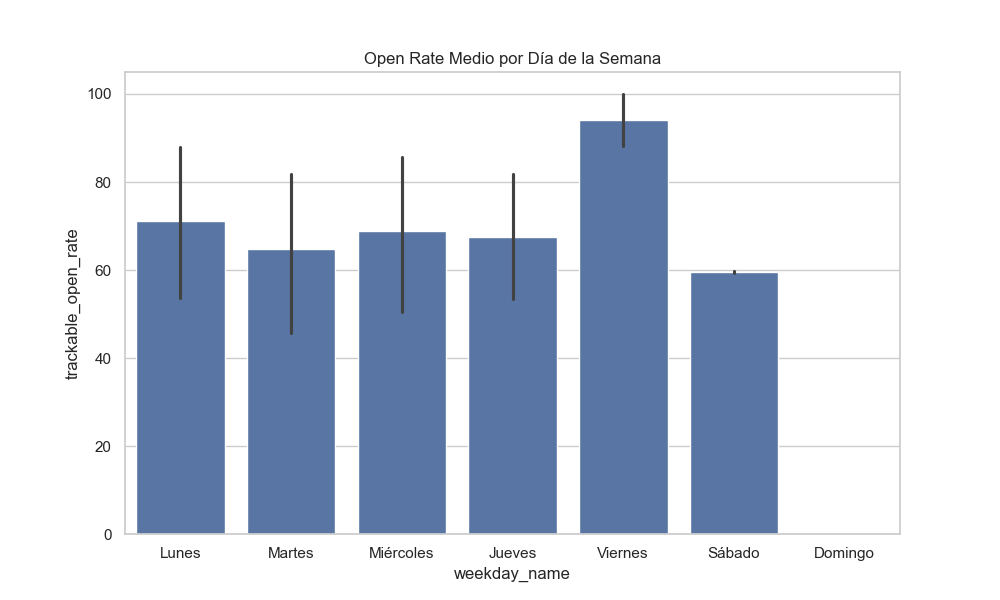
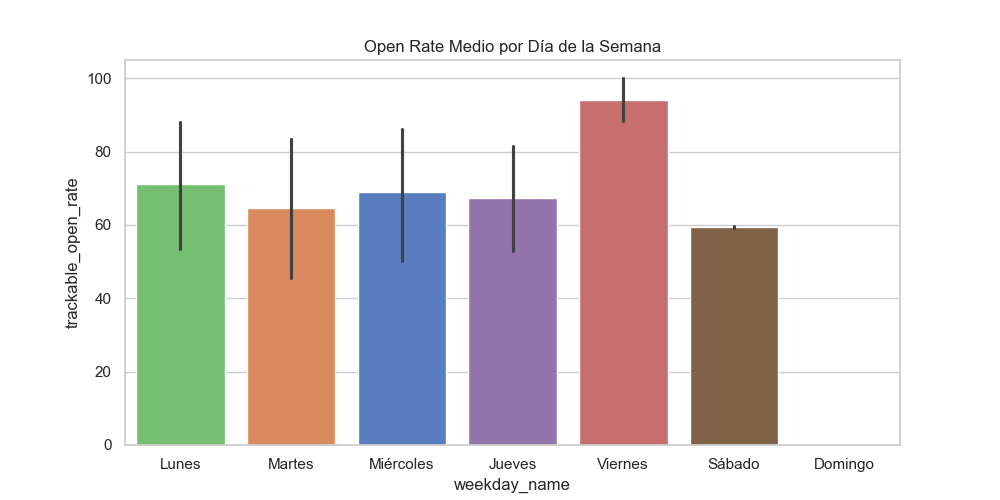
mejora del script

Changed region(s): [[0.062, 0.18, 0.775, 0.99], [0.372, 0.06, 0.682, 0.12], [0.806, 0.9, 0.868, 0.96]]

diff --git a/scripts/analisis_insights.py b/scripts/analisis_insights.py
@@ -3,15 +3,33 @@ import pandas as pd
 import numpy as np
 import matplotlib.pyplot as plt
 import seaborn as sns
+import os
+
+# Robustez para ventanas interactivas
+try:
+    script_dir = os.path.dirname(os.path.abspath(__file__))
+    project_root = os.path.abspath(os.path.join(script_dir, ".."))
+except NameError:
+    project_root = os.getcwd()
+
+# Definir rutas
+data_path = os.path.join(project_root, "data/processed/data_limpia.csv")
+outputs_tablas = os.path.join(project_root, "outputs/tablas")
+outputs_graficos = os.path.join(project_root, "outputs/graficos")
+outputs_informes = os.path.join(project_root, "outputs/informes")
 
 # Configuración visual
 sns.set(style="whitegrid")
 plt.rcParams['figure.figsize'] = (12, 8)
 
 # 1. CARGA DE DATOS
-df = pd.read_csv("notebooks/data_limpia.csv")
+if not os.path.exists(data_path):
+    raise FileNotFoundError(f"No se encontró el archivo en {data_path}")
 
-# 2. SEGMENTACIÓN POR RENDIMIENTO (CLUSTER RÁPIDO)
+df = pd.read_csv(data_path)
+print(f"✅ Datos cargados correctamente ({len(df)} registros).")
+
+# 2. SEGMENTACIÓN
 def segmentar_rendimiento(row):
     if row['trackable_open_rate'] >= 80 and row['click_rate'] >= 30:
         return 'Top Performance'
@@ -24,7 +42,7 @@ def segmentar_rendimiento(row):
 
 df['segmento_rendimiento'] = df.apply(segmentar_rendimiento, axis=1)
 
-# 3. ANÁLISIS DE TEMÁTICAS / KEYWORDS EN EL ASUNTO
+# 3. TEMÁTICAS
 keywords = {
     'convocatoria': ['convocatoria', 'abiertas', 'plazo'],
     'webinar_formacion': ['webinar', 'demo', 'taller', 'programa'],
@@ -43,76 +61,72 @@ def detectar_tematica(subject):
 df['tematica_asunto'] = df['subject'].apply(detectar_tematica)
 
 # ==============================
-# 4. ANÁLISIS TEMPORAL (AÑO, MES, DÍA)
+# 4. GUARDADO DE TABLAS
 # ==============================
+df.groupby('year')[['trackable_open_rate', 'click_rate']].mean().to_csv(os.path.join(outputs_tablas, "stats_por_año.csv"))
+df.groupby('month')[['trackable_open_rate', 'click_rate']].mean().to_csv(os.path.join(outputs_tablas, "stats_por_mes.csv"))
 
-# 4.1. Rendimiento por Año
-year_stats = df.groupby('year')[['trackable_open_rate', 'click_rate']].mean()
-year_stats.to_csv("outputs/tablas/stats_por_año.csv")
-
-# 4.2. Rendimiento por Mes (Estacionalidad)
-month_stats = df.groupby('month')[['trackable_open_rate', 'click_rate']].mean()
-month_stats.to_csv("outputs/tablas/stats_por_mes.csv")
-
-# 4.3. Rendimiento por Día de la Semana (0=Lunes, 6=Domingo)
 weekday_map = {0: 'Lunes', 1: 'Martes', 2: 'Miércoles', 3: 'Jueves', 4: 'Viernes', 5: 'Sábado', 6: 'Domingo'}
 df['weekday_name'] = df['weekday'].map(weekday_map)
 weekday_stats = df.groupby('weekday_name')[['trackable_open_rate', 'click_rate']].mean().reindex(['Lunes', 'Martes', 'Miércoles', 'Jueves', 'Viernes', 'Sábado', 'Domingo'])
-weekday_stats.to_csv("outputs/tablas/stats_por_dia.csv")
+weekday_stats.to_csv(os.path.join(outputs_tablas, "stats_por_dia.csv"))
 
-# 5. GUARDAR ESTADÍSTICAS ADICIONALES
-tematica_stats = df.groupby('tematica_asunto')[['trackable_open_rate', 'click_rate', 'click_to_open_rate']].mean().sort_values('trackable_open_rate', ascending=False)
-tematica_stats.to_csv("outputs/tablas/stats_por_tematica.csv")
-
-publico_tipo_stats = df.groupby(['tipo_publico', 'tipo_campaña'])[['trackable_open_rate', 'click_rate']].mean().unstack()
-publico_tipo_stats.to_csv("outputs/tablas/stats_publico_tipo.csv")
+print(f"📊 Tablas estadísticas guardadas en: {outputs_tablas}")
 
 # ==============================
-# 6. VISUALIZACIONES ESTRATÉGICAS
+# 5. VISUALIZACIONES (GUARDAR Y MOSTRAR)
 # ==============================
 
-# 6.1. Evolución por Año (Barplot)
-plt.figure(figsize=(10, 6))
-sns.barplot(x='year', y='trackable_open_rate', data=df, palette='viridis')
+def finalizar_grafico(nombre_archivo):
+    path = os.path.join(outputs_graficos, nombre_archivo)
+    plt.savefig(path)
+    print(f"🖼 Gráfico guardado: {nombre_archivo}")
+    plt.show() # Esto hace que se vea en la ventana interactiva
+    plt.close()
+
+# 5.1. Evolución por Año
+plt.figure(figsize=(10, 5))
+sns.barplot(x='year', y='trackable_open_rate', data=df, hue='year', palette='viridis', legend=False)
 plt.title('Evolución del Open Rate por Año')
-plt.savefig("outputs/graficos/evolucion_anual_openrate.png")
-plt.close()
+finalizar_grafico("evolucion_anual_openrate.png")
 
-# 6.2. Estacionalidad Mensual (Lineplot)
-plt.figure(figsize=(10, 6))
+# 5.2. Estacionalidad Mensual
+plt.figure(figsize=(10, 5))
 sns.lineplot(x='month', y='trackable_open_rate', data=df, marker='o', label='Open Rate')
 sns.lineplot(x='month', y='click_rate', data=df, marker='s', label='Click Rate')
 plt.xticks(range(1, 13))
 plt.title('Rendimiento Medio por Mes (Estacionalidad)')
-plt.savefig("outputs/graficos/estacionalidad_mensual.png")
-plt.close()
+finalizar_grafico("estacionalidad_mensual.png")
 
-# 6.3. Rendimiento por Día de la Semana
-plt.figure(figsize=(10, 6))
-sns.barplot(x='weekday_name', y='trackable_open_rate', data=df, order=['Lunes', 'Martes', 'Miércoles', 'Jueves', 'Viernes', 'Sábado', 'Domingo'])
+# 5.3. Rendimiento por Día de la Semana
+plt.figure(figsize=(10, 5))
+sns.barplot(x='weekday_name', y='trackable_open_rate', data=df, order=['Lunes', 'Martes', 'Miércoles', 'Jueves', 'Viernes', 'Sábado', 'Domingo'], hue='weekday_name', palette='muted', legend=False)
 plt.title('Open Rate Medio por Día de la Semana')
-plt.savefig("outputs/graficos/rendimiento_dia_semana.png")
-plt.close()
+finalizar_grafico("rendimiento_dia_semana.png")
 
-# 6.4. Mapa de calor Temática vs Público
+# 5.4. Mapa de calor
 plt.figure(figsize=(10, 6))
 pivot_tematica = df.pivot_table(values='trackable_open_rate', index='tematica_asunto', columns='tipo_publico', aggfunc='mean')
 sns.heatmap(pivot_tematica, annot=True, cmap='YlGnBu', fmt=".1f")
 plt.title('Open Rate por Temática y Público')
-plt.savefig("outputs/graficos/heatmap_tematica_publico.png")
-plt.close()
+finalizar_grafico("heatmap_tematica_publico.png")
 
-# 7. GENERACIÓN DE INSIGHTS TEXTUALES
+# ==============================
+# 6. INFORME FINAL
+# ==============================
 mejor_dia = weekday_stats['trackable_open_rate'].idxmax()
-mejor_mes = month_stats['trackable_open_rate'].idxmax()
+month_stats = df.groupby('month')['trackable_open_rate'].mean()
+mejor_mes = month_stats.idxmax()
 
-insights = []
-insights.append(f"1. El mejor día para enviar newsletters es el {mejor_dia} (Open Rate: {weekday_stats.loc[mejor_dia, 'trackable_open_rate']:.2f}%).")
-insights.append(f"2. El mes con mayor engagement histórico es el {mejor_mes}, lo que sugiere picos estacionales de interés.")
-insights.append(f"3. El público 'artistas' responde significativamente mejor a las 'convocatorias' con un Open Rate medio de {df[df['tipo_publico']=='artistas']['trackable_open_rate'].mean():.2f}%.")
-insights.append(f"4. Los envíos a 'programadores' tienen un rendimiento crítico (Open Rate: {df[df['tipo_publico']=='programadores']['trackable_open_rate'].mean():.2f}%).")
+insights = [
+    f"1. El mejor día para enviar newsletters es el {mejor_dia}.",
+    f"2. El mes con mayor engagement histórico es el {mejor_mes}.",
+    f"3. Los artistas responden mejor a convocatorias ({df[df['tipo_publico']=='artistas']['trackable_open_rate'].mean():.1f}% OR).",
+    f"4. El segmento programadores requiere optimización urgente ({df[df['tipo_publico']=='programadores']['trackable_open_rate'].mean():.1f}% OR)."
+]
 
-with open("outputs/informes/insights_preliminares.txt", "w") as f:
+with open(os.path.join(outputs_informes, "insights_preliminares.txt"), "w") as f:
     f.write("\n".join(insights))
 
-print("Proceso de insights (incluyendo temporalidad) completado.")
+print(f"📝 Informe de insights actualizado en: {outputs_informes}")
+print("\n" + "\n".join(insights))
